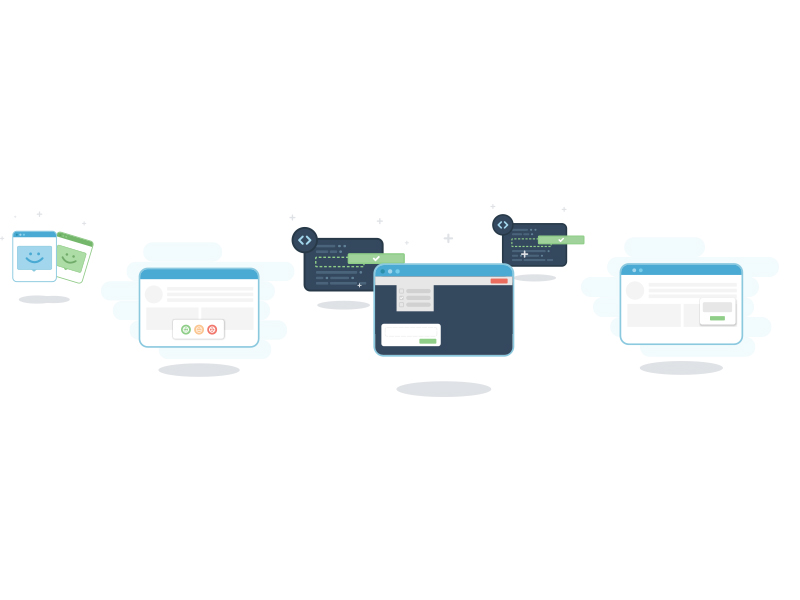
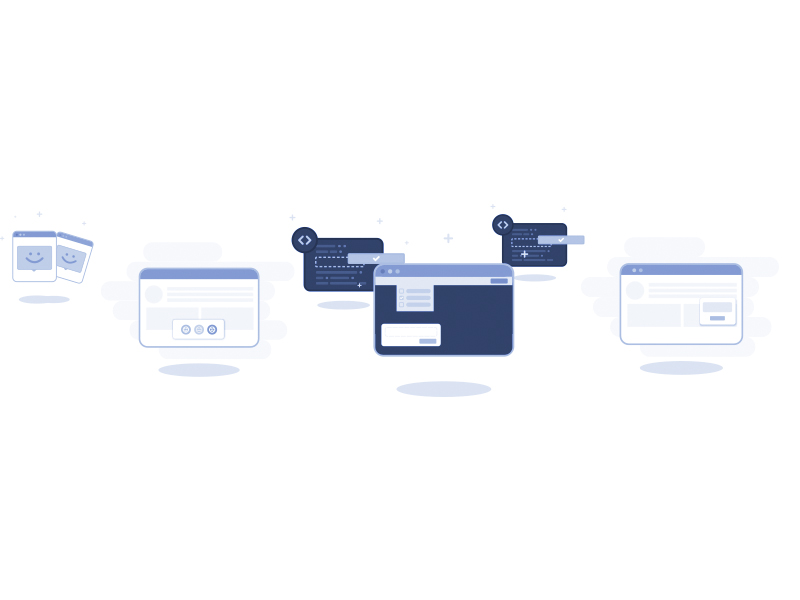
asides

diff --git a/css/app.css b/css/app.css
@@ -6,7 +6,7 @@
   z-index: -3;
   width: 100%;
   height: 100%;
-  opacity: 0.3; }
+  opacity: .1; }
 
 .hero {
   height: 100vh;

diff --git a/scss/hero.scss b/scss/hero.scss
@@ -3,7 +3,7 @@
 	z-index: -3;
 	width: 100%;
 	height: 100%;
-	opacity: .3;
+	opacity: .1;
 }
 
 .hero {
